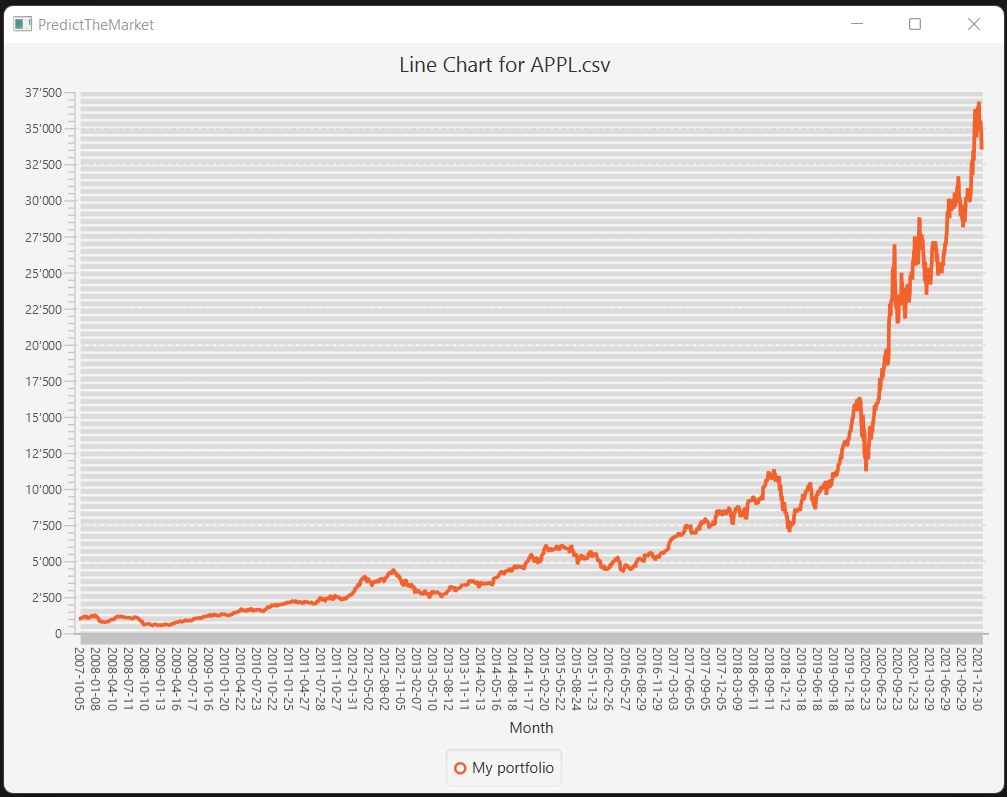
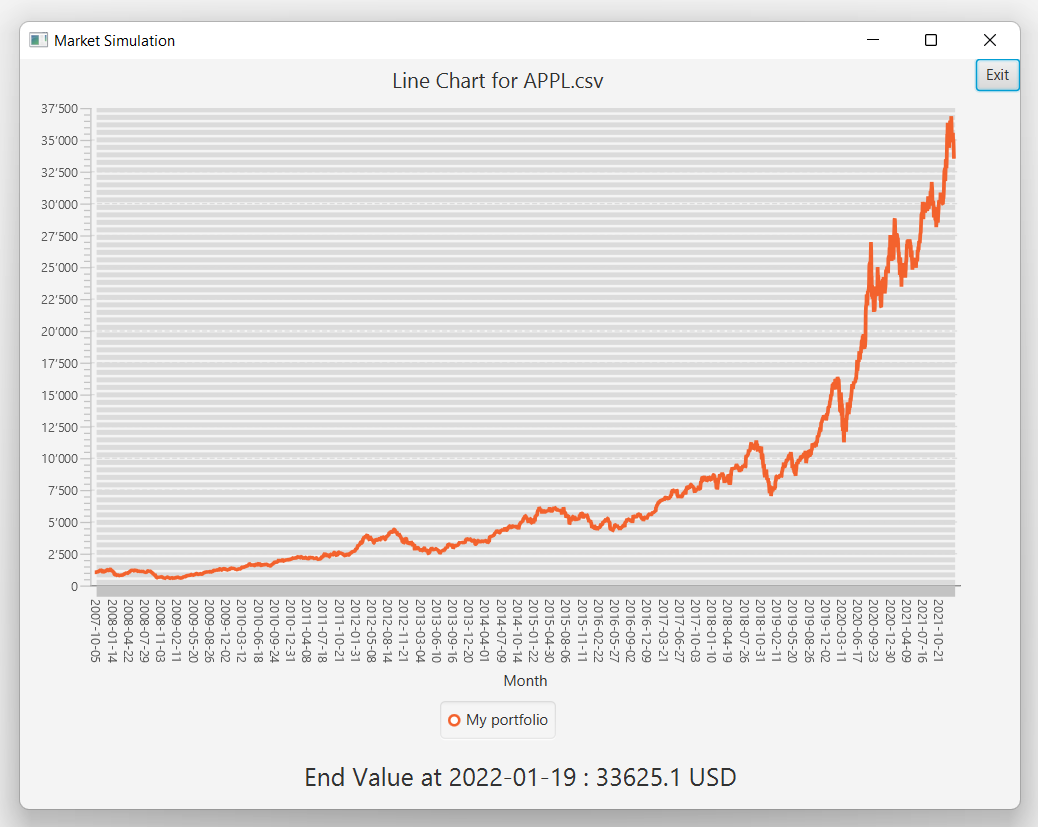
First Commit

Changed region(s): [[0.0, 0.0, 1.0, 1.0]]

diff --git a/src/com/company/CreateLineChartAnimation.java b/src/com/company/CreateLineChartAnimation.java
@@ -1,6 +1,7 @@
 package com.company;
 
 import com.company.data.DataBucket;
+import javafx.animation.PauseTransition;
 import javafx.application.Application;
 import javafx.application.Platform;
 import javafx.geometry.Insets;
@@ -10,17 +11,27 @@ import javafx.scene.chart.CategoryAxis;
 import javafx.scene.chart.LineChart;
 import javafx.scene.chart.NumberAxis;
 import javafx.scene.chart.XYChart;
+import javafx.scene.control.Button;
 import javafx.scene.control.Label;
 import javafx.scene.layout.Border;
 import javafx.scene.layout.BorderPane;
+import javafx.scene.layout.VBox;
+import javafx.scene.text.Font;
 import javafx.stage.Stage;
+import javafx.util.Duration;
 
+import javax.swing.*;
+import java.awt.event.ActionEvent;
+import java.beans.EventHandler;
 import java.io.IOException;
+import java.math.BigDecimal;
+import java.math.RoundingMode;
 import java.text.SimpleDateFormat;
 import java.util.Date;
 import java.util.List;
 import java.util.concurrent.Executors;
 import java.util.concurrent.ScheduledExecutorService;
+import java.util.concurrent.ScheduledFuture;
 import java.util.concurrent.TimeUnit;
 
 import static com.company.Main.startBudget;
@@ -70,14 +81,38 @@ public class CreateLineChartAnimation extends Application {
 
     //Create a portfolio simulation holding label
     Label portfolio = new Label();
+    portfolio.setFont(Font.font(20));
 
     BorderPane borderPane = new BorderPane();
     BorderPane.setAlignment(portfolio, Pos.BOTTOM_CENTER);
     BorderPane.setMargin(portfolio, new Insets(10,10,10,10));
     borderPane.setBottom(portfolio);
-    //borderPane.setBottom(portfolio);
+
     borderPane.setMargin(lineChart, new Insets(0,0,0,0));
     borderPane.setCenter(lineChart);
+
+    //create a exit button
+    Button exit = new Button("Exit");
+    exit.setOnAction(value -> {
+      Platform.exit();
+    });
+    borderPane.setRight(exit);
+
+    //create a stop button
+    Button stop = new Button("Stop");
+    stop.setOnAction(value -> {
+      scheduledExecutorService.shutdownNow();
+    });
+    VBox right = new VBox();
+    right.getChildren().addAll(stop, exit);
+    borderPane.setRight(right);
+
+    //create a start button
+    //Button start = new Button("Start");
+    //start.setOnAction(value -> {
+      //scheduledExecutorService..;
+    //});
+    //borderPane.setLeft(start);
 
     //setup scene
     Scene scene = new Scene(borderPane, 800, 600);
@@ -100,7 +135,13 @@ public class CreateLineChartAnimation extends Application {
         //get current time
         //Date now = new Date();
         //put data with current date
-        portfolio.setText("Portfolio Value: " + String.valueOf((stockData.get(i) * simulationBudget)));
+
+        //Convert double Value to two decimal precision
+        Double portfolioValue = stockData.get(i) * simulationBudget;
+        Double truncatedDouble = BigDecimal.valueOf(portfolioValue).setScale(2, RoundingMode.HALF_UP).doubleValue();
+
+        // Output the data
+        portfolio.setText("Portfolio Value: " + String.valueOf(truncatedDouble) + " USD");
         series.getData().add(new XYChart.Data<>(dateData.get(i), (stockData.get(i) * simulationBudget)));
         //if (series.getData().size() > WINDOW_SIZE)
         //series.getData().remove(0);

diff --git a/src/com/company/CreateLineChart.java b/src/com/company/CreateLineChart.java
@@ -2,6 +2,7 @@ package com.company;
 
 import com.company.data.DataBucket;
 import javafx.application.Application;
+import javafx.application.Platform;
 import javafx.geometry.Insets;
 import javafx.geometry.Pos;
 import javafx.scene.Group;
@@ -17,6 +18,8 @@ import javafx.scene.text.Font;
 import javafx.stage.Stage;
 
 import java.io.IOException;
+import java.math.BigDecimal;
+import java.math.RoundingMode;
 import java.util.List;
 
 import static com.company.Main.startBudget;
@@ -59,7 +62,7 @@ public class CreateLineChart extends Application {
     for (Double price : stockData) {
       series.getData().add(new XYChart.Data(dateData.get(i), (price * simulationBudget)));
       endDate = dateData.get(i);
-      endValue = price * simulationBudget;
+      endValue = (price * simulationBudget);
       i++;
     }
 
@@ -67,13 +70,23 @@ public class CreateLineChart extends Application {
 
     //Create a portfolio simulation holding label
     Label portfolio = new Label();
-    portfolio.setFont(Font.font(25));
+    portfolio.setFont(Font.font(20));
     BorderPane.setAlignment(portfolio, Pos.BOTTOM_CENTER);
     BorderPane.setMargin(portfolio, new Insets(10,10,10,10));
     borderPane.setBottom(portfolio);
 
     borderPane.setCenter(lineChart);
-    portfolio.setText("End Value at " + endDate + " : " + endValue);
+
+    //create a exit button
+    Button exit = new Button("Exit");
+    exit.setOnAction(value -> {
+      Platform.exit();
+    });
+    borderPane.setRight(exit);
+
+    // Change decimale precision to two decimal
+    Double truncatedDouble = BigDecimal.valueOf(endValue).setScale(2, RoundingMode.HALF_UP).doubleValue();
+    portfolio.setText("End Value at " + endDate + " : " + truncatedDouble + " USD");
 
     //Creates grid for showing Chart
     Scene scene = new Scene(borderPane, 800, 600);
